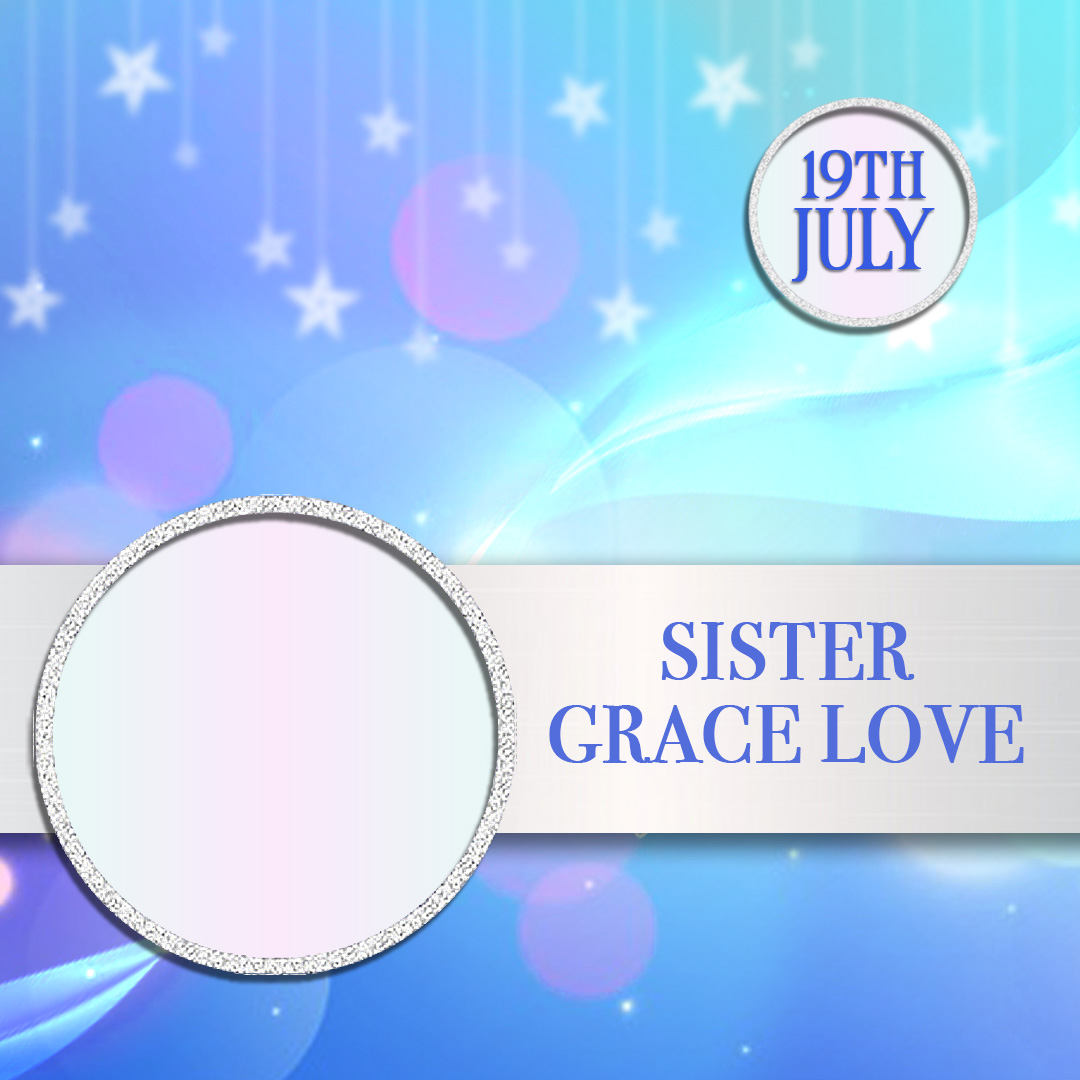
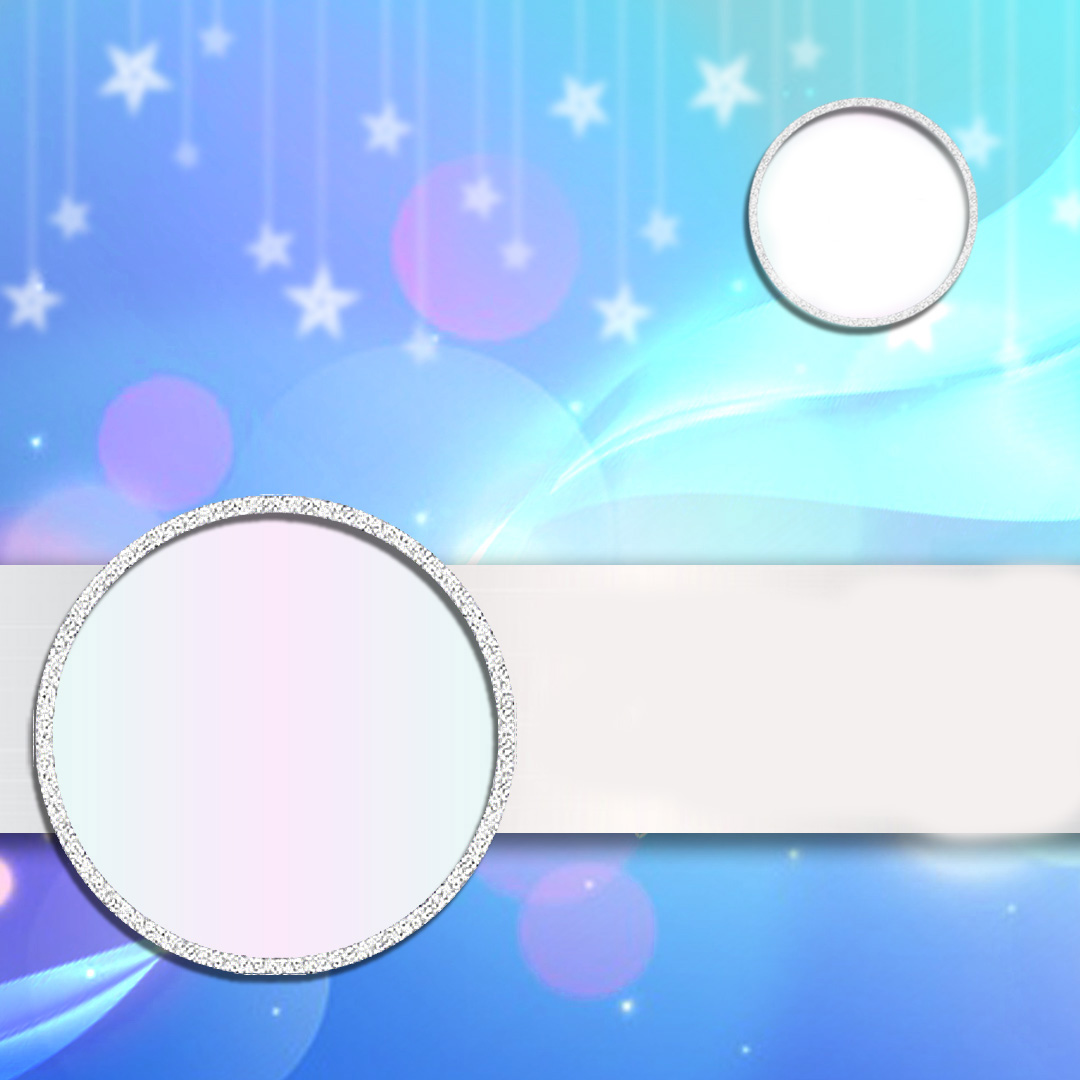
almost done

Changed region(s): [[0.4889, 0.5194, 1.0, 0.7944], [0.7333, 0.1222, 0.9167, 0.275]]

diff --git a/index.html b/index.html
@@ -1,27 +1,66 @@
  <!DOCTYPE html>
 <html>
+<meta name="viewport" content="width=device-width, initial-scale=1">
 <head>
 <title>Birthday Ecards</title>
+<link href='http://fonts.googleapis.com/css?family=Lobster' rel='stylesheet' type='text/css'>
+ 
  <link rel="stylesheet" type="text/css" href="css/style.css" />
+ <script src="js.js"></script>
 </head>
 <body>
- <div class="header">
-  <a href="#default" class="logo">Logo</a>
-  <div class="header-right">
-    <a class="active" href="#home">Background</a>
-    <a href="#contact">Text style</a>
-    <a href="#about">Text color</a>
-    <a href="#about">Font size</a>
-  </div>
+ 
+ <div class="container-fluid test img-responsive">
+    <div class="row">
+        <div class="col-md-12">
+            <div class="row">
+                <div class="col-md-12">
+                    <div class="row">
+                        <div class="text-center col-md-6 waben">
+                            <img class="wabeeins pull-left img-responsive" src="img/a.jpg"
+                                height="700" width="700" id="wabeone" alt=wabe1>
+                            <div class="fellowship">
+                                <h2 contentEditable>BLW NAME OF FELLOWSHIP</h2>
+                            </div>
+                            <div class="birthday">
+                                <h1>Happy<br>Birthday</h1>
+                            </div>
+                            <div class="date">
+                                <h3 contentEditable>Date</h3>
+                            </div>
+                            <div class="name">
+                                <h4 contentEditable>Name</h4>
+                            </div>
+                            <div class="custom">
+                                <h5 contentEditable>Customisable text to go here</h5>
+                            </div>
+                        </div>          
+                </div>
+            </div>
+        </div>
+    </div>
 </div>
- 
- 
- 
- 
- 
- 
+</div>
 
- 
+
+<div class="upload">
+ <img class="circular--portrait" id="blah" alt="" />
+<pre>                
+
+
+
+
+</pre>
+    
+<input type="file" 
+    onchange="document.getElementById('blah').src = window.URL.createObjectURL(this.files[0])">
+ </div>
+
 
 </body>
 </html> 
+
+
+
+
+ 

diff --git a/css/style.css b/css/style.css
@@ -1,53 +1,88 @@
-body {
-  background-image: url('../img/a.jpg');
-  background-size: cover;
-  background-repeat: no-repeat;
-  
+
+.waben{
+  position: relative;
+  display: inline-block;
+}
+.fellowship{
+  position: absolute;
+  top:5%;
+  left:75%;
+  transform:translate(-50%, -50%);
+  -webkit-transform:translate(-50%, -50%);
+}
+.birthday{
+  position: absolute;
+  top:25%;
+  left:30%;
+  transform:translate(-50%, -50%);
+  -webkit-transform:translate(-50%, -50%);
+}
+.date{
+  position: absolute;
+  top:20%;
+  left:80%;
+  transform:translate(-50%, -50%);
+  -webkit-transform:translate(-50%, -50%);
+}
+.name{
+  position: absolute;
+  top:65%;
+  left:70%;
+  transform:translate(-50%, -50%);
+  -webkit-transform:translate(-50%, -50%);
+}
+.custom{
+  position: absolute;
+  top:88%;
+  left:77%;
+  transform:translate(-50%, -50%);
+  -webkit-transform:translate(-50%, -50%);
 }
 
-.header {
+.upload {
+       float: left;
+       position: absolute;
+       left: 40px;
+       top: 340px;
+       z-index: 1000;
+       padding: 5px;
+       font-weight: bold;
+    }
+.circular--portrait {
+  position: relative;
+  width: 280px;
+  height: 280px;
   overflow: hidden;
-  background-color: #f1f1f1;
-  padding: 20px 10px;
+  border-radius: 50%;
+  z-index: 1000;
 }
 
-.header a {
-  float: left;
-  color: black;
-  text-align: center;
-  padding: 12px;
-  text-decoration: none;
-  font-size: 18px; 
-  line-height: 25px;
-  border-radius: 4px;
+img{
+  max-width:700;
+}
+h2{
+  white-space: nowrap;
+  color: whitesmoke;
+}
+h1{
+  font-family: 'Lobster';
+  font-size: 100px;
+  color: whitesmoke;
 }
 
-.header a.logo {
+h3{
+  font-family: 'Lobster';
   font-size: 25px;
-  font-weight: bold;
+  color: skyblue;
 }
-
-.header a:hover {
-  background-color: deepskyblue;
-  color: black;
+h4{
+  font-size: 25px;
+  text-align: center;
+   color: skyblue;
 }
-
-.header a.active {
-  background-color: skyblue;
-  color: white;
+h5{
+  white-space: nowrap;
+  font-size: 25px;
+  text-align: center;
+   color: whitesmoke;
 }
-
-.header-right {
-  float: right;
-}
-
-@media screen and (max-width: 500px) {
-  .header a {
-    float: none;
-    display: block;
-    text-align: left;
-  }
-  
-  .header-right {
-    float: none;
-  }
